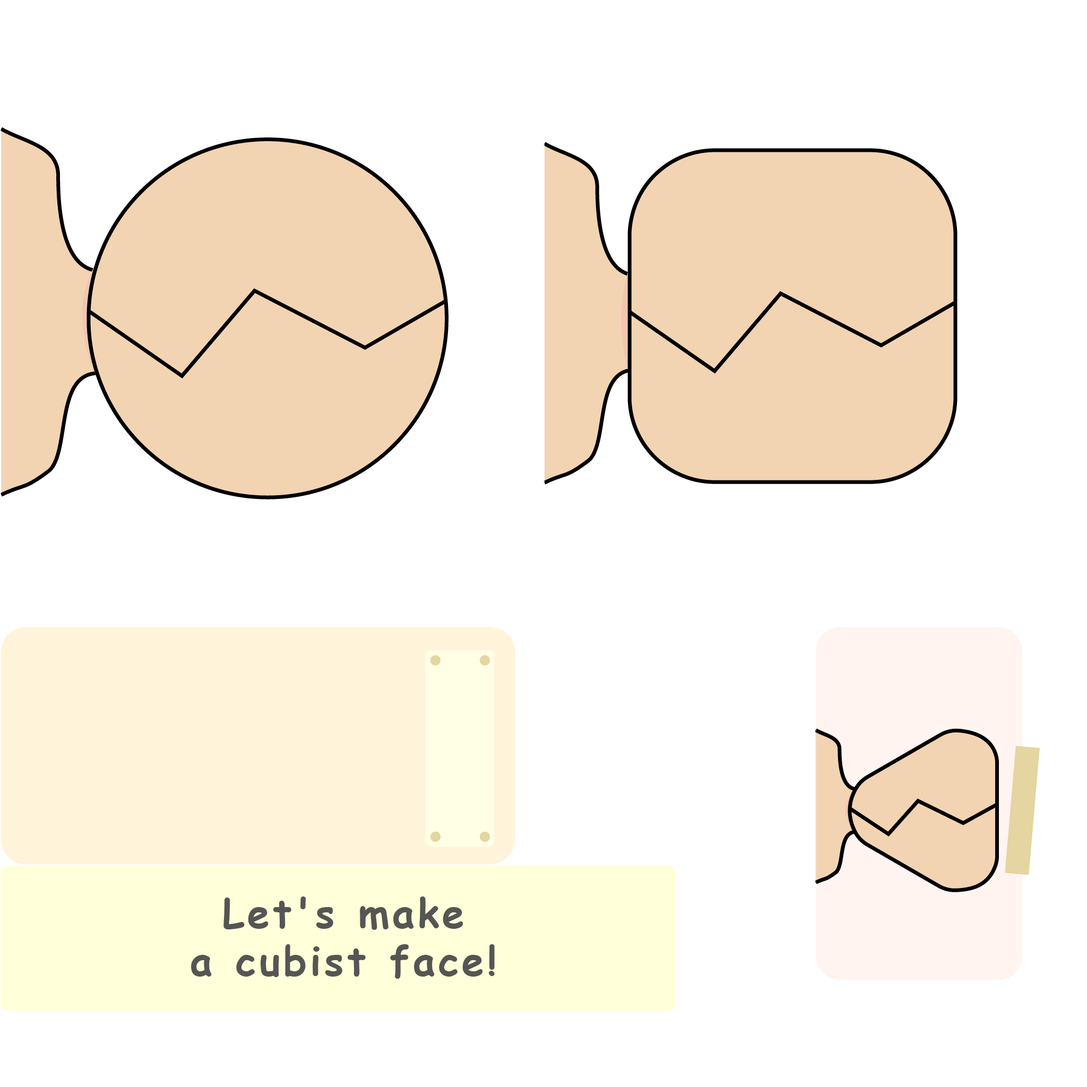
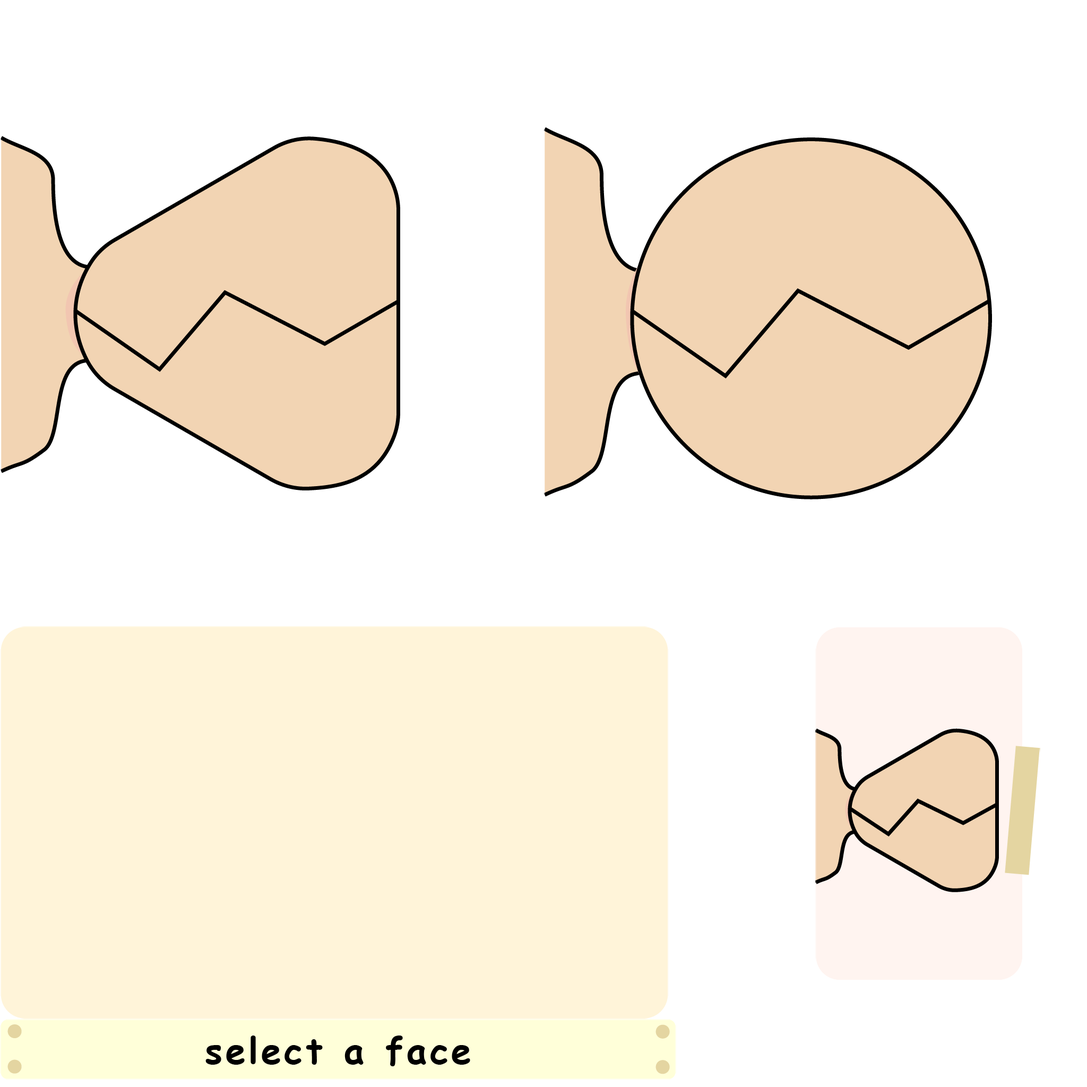
0.2

diff --git a/scripts/c3runtime.js b/scripts/c3runtime.js
@@ -3619,6 +3619,85 @@ SetWebFont(familyName,cssUrl){console.warn("[Text] 'Set web font' action is depr
 }
 
 {
+'use strict';{const C3=self.C3;C3.Plugins.DrawingCanvas=class DrawingCanvasPlugin extends C3.SDKPluginBase{constructor(opts){super(opts)}Release(){super.Release()}}}{const C3=self.C3;C3.Plugins.DrawingCanvas.Type=class DrawingCanvasType extends C3.SDKTypeBase{constructor(objectClass){super(objectClass)}Release(){super.Release()}OnCreate(){}}}
+{const C3=self.C3;const C3X=self.C3X;const RESOLUTION_MODE=0;const INITIALLY_VISIBLE=1;const ORIGIN=2;const MULTISAMPLING=3;const tempColor=C3.New(C3.Color);const tempRect=C3.New(C3.Rect);const tempQuad=C3.New(C3.Quad);let drawDepth=0;C3.Plugins.DrawingCanvas.Instance=class DrawingCanvasInstance extends C3.SDKWorldInstanceBase{constructor(inst,properties){super(inst);this._renderTarget=null;this._rcTex=C3.New(C3.Rect);const wi=this.GetWorldInfo();this._isFixedResolution=false;this._fixedResolutionWidth=
+Math.floor(wi.GetWidth());this._fixedResolutionHeight=Math.floor(wi.GetHeight());this._multisampling=0;this._texRenderTarget=null;this._drawCommands=[];this._currentPoly=[];this._drawBlendMode=0;this._drawScale=1;this._texScale=1;this._lineDashTexture=null;this._savedImageUrl="";this._snapshot=null;this._tempRect=C3.New(C3.Rect);this._deviceQuadUnrotated=C3.New(C3.Quad);this._deviceQuadRotated=C3.New(C3.Quad);if(properties){this._isFixedResolution=properties[RESOLUTION_MODE]===1;wi.SetVisible(!!properties[INITIALLY_VISIBLE]);
+this._multisampling=[0,2,4,8][properties[MULTISAMPLING]]}const renderer=this._runtime.GetRenderer();this._SetDrawingBlendMode(0);if(renderer.IsWebGL()&&renderer.GetWebGLVersionNumber()<2)this._multisampling=0;this._StartTicking2()}Release(){if(this._renderTarget){this._renderTarget.GetRenderer().DeleteRenderTarget(this._renderTarget);this._renderTarget=null}if(this._texRenderTarget){this._texRenderTarget.GetRenderer().DeleteRenderTarget(this._texRenderTarget);this._texRenderTarget=null}C3.clearArray(this._drawCommands);
+super.Release()}IsFixedResolutionMode(){return this._isFixedResolution}_ClonePoly(){return this._currentPoly.map(p=>p.slice(0))}_GetLineDashTexture(){this._MaybeCreateLineDashTexture();return this._lineDashTexture}_MaybeCreateLineDashTexture(){if(this._lineDashTexture)return;const canvas=C3.CreateCanvas(512,8);const ctx=canvas.getContext("2d");ctx.clearRect(0,0,512,8);ctx.fillStyle="white";ctx.fillRect(0,0,256,8);this._lineDashTexture=this._runtime.GetRenderer().CreateStaticTexture(canvas,{wrapX:"repeat",
+sampling:this._runtime.GetSampling()})}_SetDrawingBlendMode(bm){this._drawBlendMode=bm}_ApplyCurrentDrawingBlendMode(renderer){renderer.SetBlendMode(this._drawBlendMode)}_AddDrawCommand(cmd){this._drawCommands.push(cmd);this._runtime.UpdateRender()}_UpdateRenderTargetSize(renderer,rtWidth,rtHeight){if(this._renderTarget)renderer.DeleteRenderTarget(this._renderTarget);this._renderTarget=renderer.CreateRenderTarget({width:rtWidth,height:rtHeight,sampling:this._runtime.GetSampling(),isSampled:this._multisampling===
+0,canReadPixels:this._multisampling===0,multisampling:this._multisampling});if(this._multisampling>0){if(this._texRenderTarget)renderer.DeleteRenderTarget(this._texRenderTarget);this._texRenderTarget=renderer.CreateRenderTarget({width:rtWidth,height:rtHeight,sampling:this._runtime.GetSampling(),isSampled:true,canReadPixels:true})}renderer.SetTexture(null)}_GetRenderTarget(){return this._renderTarget}_GetTexRenderTarget(){return this._texRenderTarget}GetMultisampling(){return this._multisampling}_SetRenderTargetDeviceTransform(renderer){this._runtime.GetCanvasManager().SetDeviceTransform(renderer,
+this._renderTarget.GetWidth(),this._renderTarget.GetHeight(),false)}HasAnyDrawingCommandInQueue(){return this._drawCommands.some(c=>!(c instanceof C3.Plugins.DrawingCanvas.DrawCommand.SaveImage))}_CalculateUnrotatedDeviceCoords(outRect,outQuad){const wi=this.GetWorldInfo();const layer=wi.GetLayer();const layout=layer.GetLayout();const angle=wi.GetAngle();const layerAngle=layer.GetOwnAngle();const layoutAngle=layout.GetAngle();if(angle!==0||layerAngle!==0||layoutAngle!==0){layout.SetAngle(0);layer.SetAngle(0);
+wi.SetAngle(0);wi.SetBboxChanged()}const quad=wi.GetBoundingQuad();const [dl,dt]=layer.LayerToDrawSurface(quad.getTlx(),quad.getTly());const [dr,db]=layer.LayerToDrawSurface(quad.getBrx(),quad.getBry());const offX=dl-Math.round(dl);const offY=dt-Math.round(dt);outRect.set(dl,dt,dr,db);outRect.offset(-offX,-offY);outRect.normalize();outQuad.setFromRect(outRect);if(angle!==0||layerAngle!==0||layoutAngle!==0){layout.SetAngle(layoutAngle);layer.SetAngle(layerAngle);wi.SetAngle(angle);wi.SetBboxChanged()}}_CalculateRotatedDeviceCoords(outQuad){const wi=
+this.GetWorldInfo();const layer=wi.GetLayer();const layout=layer.GetLayout();const layerAngle=layer.GetOwnAngle();const layoutAngle=layout.GetAngle();if(layerAngle!==0||layoutAngle!==0){layout.SetAngle(0);layer.SetAngle(0)}const quad=wi.GetBoundingQuad();const [dtlx,dtly]=layer.LayerToDrawSurface(quad.getTlx(),quad.getTly());const [dtrx,dtry]=layer.LayerToDrawSurface(quad.getTrx(),quad.getTry());const [dbrx,dbry]=layer.LayerToDrawSurface(quad.getBrx(),quad.getBry());const [dblx,dbly]=layer.LayerToDrawSurface(quad.getBlx(),
+quad.getBly());const offX=dtlx-Math.round(dtlx);const offY=dtly-Math.round(dtly);outQuad.set(dtlx,dtly,dtrx,dtry,dbrx,dbry,dblx,dbly);outQuad.offset(offX,offY);if(layerAngle!==0||layoutAngle!==0){layout.SetAngle(layoutAngle);layer.SetAngle(layerAngle)}}_CalculateSurfaceDeviceSize(){const renderer=this._runtime.GetRenderer();const tempRect=this._tempRect;this._CalculateUnrotatedDeviceCoords(tempRect,this._deviceQuadUnrotated);this._CalculateRotatedDeviceCoords(this._deviceQuadRotated);let rtWidth=
+0;let rtHeight=0;if(this._isFixedResolution){rtWidth=this._fixedResolutionWidth;rtHeight=this._fixedResolutionHeight;if(renderer.IsWebGL())this._rcTex.set(0,1,1,0);else this._rcTex.set(0,0,1,1)}else{const EPSILON=.001;rtWidth=Math.ceil(tempRect.width()+EPSILON);rtHeight=Math.ceil(tempRect.height()+EPSILON);if(renderer.IsWebGL())this._rcTex.set(0,1,tempRect.width()/rtWidth,1-tempRect.height()/rtHeight);else this._rcTex.set(0,0,tempRect.width()/rtWidth,tempRect.height()/rtHeight)}const maxTextureSize=
+renderer.GetMaxTextureSize();const maxRtDim=Math.max(rtWidth,rtHeight);if(maxRtDim>maxTextureSize){this._texScale=maxTextureSize/maxRtDim;rtWidth=Math.round(rtWidth*this._texScale);rtHeight=Math.round(rtHeight*this._texScale)}else this._texScale=1;return[rtWidth,rtHeight]}_MaybeCreateRenderTarget(){if(this._renderTarget)return;const [rtWidth,rtHeight]=this._CalculateSurfaceDeviceSize();if(rtWidth<=0||rtHeight<=0)return;this._drawScale=tempRect.width()/this.GetWorldInfo().GetWidth();this._UpdateRenderTargetSize(this._runtime.GetRenderer(),
+rtWidth,rtHeight);this.Trigger(C3.Plugins.DrawingCanvas.Cnds.OnResolutionChanged)}Tick2(){const renderer=this._runtime.GetRenderer();const wi=this.GetWorldInfo();const tempRect=this._tempRect;++drawDepth;const [rtWidth,rtHeight]=this._CalculateSurfaceDeviceSize();if(rtWidth<=0||rtHeight<=0){--drawDepth;return}this._drawScale=this._isFixedResolution?1:tempRect.width()/wi.GetWidth();const drawScale=this._drawScale*this._texScale;const didRenderTargetChange=!this._renderTarget||this._renderTarget.GetWidth()!==
+rtWidth||this._renderTarget.GetHeight()!==rtHeight;if(didRenderTargetChange)this.Trigger(C3.Plugins.DrawingCanvas.Cnds.OnResolutionChanged);if(this._drawCommands.length>0||!this._renderTarget){if(!this._renderTarget||didRenderTargetChange&&this.HasAnyDrawingCommandInQueue())this._UpdateRenderTargetSize(renderer,rtWidth,rtHeight);renderer.SetRenderTarget(this._renderTarget);this._SetRenderTargetDeviceTransform(renderer);this._ApplyCurrentDrawingBlendMode(renderer);for(const dc of this._drawCommands)dc.Do(renderer,
+drawScale,this);C3.clearArray(this._drawCommands);renderer.SetAlphaBlend();if(this._multisampling>0){renderer.SetRenderTarget(this._texRenderTarget);renderer.CopyRenderTarget(this._renderTarget,"crop")}}--drawDepth}Draw(renderer){const wi=this.GetWorldInfo();const layer=wi.GetLayer();const canvasManager=this._runtime.GetCanvasManager();const lastRenderTarget=renderer.GetRenderTarget();let quad=this._deviceQuadUnrotated;if(!this._renderTarget)return;if(renderer.IsWebGPU())renderer._MaybeDoPendingClearRenderPass(this._renderTarget);
+if(this._multisampling===0)renderer.SetTexture(this._renderTarget.GetTexture());else renderer.SetTexture(this._texRenderTarget.GetTexture());let didChangeTransform=false;if(drawDepth>0)if(this._inst._IsDrawingWithEffects())quad=wi.GetBoundingQuad();else{canvasManager.SetDeviceTransform(renderer,lastRenderTarget.GetWidth(),lastRenderTarget.GetHeight(),false);didChangeTransform=true;quad=this._deviceQuadRotated}else if(wi.GetAngle()===0&&layer.GetAngle()===0&&!wi.HasMesh()&&layer.RendersIn2DMode()){canvasManager.SetDeviceTransform(renderer);
+didChangeTransform=true}else quad=wi.GetBoundingQuad();if(wi.HasMesh())this._DrawMesh(renderer,wi);else renderer.Quad3(quad,this._rcTex);if(didChangeTransform)layer._SetTransform(renderer,false);renderer.SetTexture(null)}_DrawMesh(renderer,wi){const transformedMesh=wi.GetTransformedMesh();if(wi.IsMeshChanged()){wi.CalculateBbox(tempRect,tempQuad,false);transformedMesh.CalculateTransformedMesh(wi.GetSourceMesh(),tempQuad,this._rcTex);wi.SetMeshChanged(false)}transformedMesh.Draw(renderer)}GetSnapshotPixel(x,
+y){if(!this._snapshot)return[0,0,0,0];const width=this._snapshot.width;const height=this._snapshot.height;x=Math.floor(x);if(this._runtime.GetRenderer().IsWebGL())y=height-1-Math.floor(y);else y=Math.floor(y);if(x<0||y<0||x>=width||y>=height)return[0,0,0,0];const data=this._snapshot.data;const ptr=y*width*4+x*4;let r=data[ptr]/255;let g=data[ptr+1]/255;let b=data[ptr+2]/255;let a=data[ptr+3]/255;if(a!==0){r/=a;g/=a;b/=a}return[r*100,g*100,b*100,a*100]}SetSnapshotPixel(x,y,rgb){if(!this._snapshot)return[0,
+0,0,0];tempColor.setFromRgbValue(rgb);tempColor.premultiply();const width=this._snapshot.width;const height=this._snapshot.height;x=Math.floor(x);y=height-1-Math.floor(y);if(x<0||y<0||x>=width||y>=height)return;const data=this._snapshot.data;const ptr=y*width*4+x*4;data[ptr]=Math.floor(tempColor.getR()*255);data[ptr+1]=Math.floor(tempColor.getG()*255);data[ptr+2]=Math.floor(tempColor.getB()*255);data[ptr+3]=Math.floor(tempColor.getA()*255)}GetImagePixelData(){return new Promise(resolve=>{this._AddDrawCommand(new C3.Plugins.DrawingCanvas.DrawCommand.SaveImage(async imageData=>
+{const imgDataBuffer=imageData.data.buffer;const width=imageData.width;const height=imageData.height;const processedBuffer=await this._runtime.AddJob("ProcessImageData",{"buffer":imgDataBuffer,"width":width,"height":height,"unpremultiply":true,"flipY":true},[imgDataBuffer]);resolve(new ImageData(new Uint8ClampedArray(processedBuffer),width,height))}))})}LoadImagePixelData(imageData,premultiplyAlpha,flipY){this._MaybeCreateRenderTarget();if(!this._renderTarget)throw new Error("invalid canvas size");
+if(imageData.width!==this._renderTarget.GetWidth()||imageData.height!==this._renderTarget.GetHeight())throw new Error(`wrong size ImageData: expected ${this._renderTarget.GetWidth()} x ${this._renderTarget.GetHeight()}, got ${imageData.width} x ${imageData.height}`);C3.clearArray(this._drawCommands);const renderer=this._runtime.GetRenderer();if(this._texRenderTarget){const lastRenderTarget=renderer.GetRenderTarget();const texture=this._texRenderTarget.GetTexture();renderer.UpdateTexture(imageData,
+texture,{premultiplyAlpha:!!premultiplyAlpha,flipY:!!flipY});renderer.SetRenderTarget(this._renderTarget);renderer.CopyRenderTarget(this._texRenderTarget,"crop");renderer.SetRenderTarget(lastRenderTarget)}else{const texture=this._renderTarget.GetTexture();renderer.UpdateTexture(imageData,texture,{premultiplyAlpha:!!premultiplyAlpha,flipY:!!flipY})}this._runtime.UpdateRender()}GetScriptInterfaceClass(){return self.IDrawingCanvasInstance}};const map=new WeakMap;self.IDrawingCanvasInstance=class IDrawingCanvasInstance extends self.IWorldInstance{constructor(){super();
+map.set(this,self.IInstance._GetInitInst().GetSdkInstance())}getImagePixelData(){return map.get(this).GetImagePixelData()}loadImagePixelData(imageData,premultiplyAlpha=false){C3X.RequireInstanceOf(imageData,ImageData);map.get(this).LoadImagePixelData(imageData,premultiplyAlpha,true)}get surfaceDeviceWidth(){const inst=map.get(this);inst._MaybeCreateRenderTarget();const rt=inst._GetRenderTarget();if(!rt)throw new Error("invalid canvas size");return rt.GetWidth()}get surfaceDeviceHeight(){const inst=
+map.get(this);inst._MaybeCreateRenderTarget();const rt=inst._GetRenderTarget();if(!rt)throw new Error("invalid canvas size");return rt.GetHeight()}}}{const C3=self.C3;C3.Plugins.DrawingCanvas.Cnds={OnSavedImage(){return true},OnSnapshot(){return true},OnResolutionChanged(){return true}}}
+{const C3=self.C3;function SortByInstanceZIndex(a,b){return a.GetWorldInfo().GetZIndex()-b.GetWorldInfo().GetZIndex()}C3.Plugins.DrawingCanvas.Acts={SetEffect(effect){this.GetWorldInfo().SetBlendMode(effect);this._runtime.UpdateRender()},SetResolutionMode(mode,fixedWidth,fixedHeight){this._isFixedResolution=mode===1;this._fixedResolutionWidth=Math.floor(fixedWidth);this._fixedResolutionHeight=Math.floor(fixedHeight)},ClearCanvas(rgb){C3.clearArray(this._drawCommands);this._AddDrawCommand(new C3.Plugins.DrawingCanvas.DrawCommand.ClearCanvas(rgb))},
+ClearRect(left,top,right,bottom,rgb){if(left===right||top===bottom)return;this._AddDrawCommand(new C3.Plugins.DrawingCanvas.DrawCommand.ClearRect(left,top,right,bottom,rgb))},FillRect(left,top,right,bottom,rgb){if(left===right||top===bottom)return;this._AddDrawCommand(new C3.Plugins.DrawingCanvas.DrawCommand.FillRect(left,top,right,bottom,rgb))},FillLinearGradient(left,top,right,bottom,rgb1,rgb2,dir){if(left===right||top===bottom)return;this._AddDrawCommand(new C3.Plugins.DrawingCanvas.DrawCommand.FillLinearGradient(left,
+top,right,bottom,rgb1,rgb2,dir))},FillEllipse(x,y,radiusX,radiusY,rgb,edge){if(radiusX<=0||radiusY<=0)return;this._AddDrawCommand(new C3.Plugins.DrawingCanvas.DrawCommand.FillEllipse(x,y,radiusX,radiusY,rgb,edge!==0))},OutlineEllipse(x,y,radiusX,radiusY,rgb,thickness,edge){if(radiusX<=0||radiusY<=0||thickness<=0)return;this._AddDrawCommand(new C3.Plugins.DrawingCanvas.DrawCommand.OutlineEllipse(x,y,radiusX,radiusY,rgb,thickness,edge!==0))},OutlineRect(left,top,right,bottom,rgb,thickness){if(left===
+right||top===bottom||thickness<=0)return;this._AddDrawCommand(new C3.Plugins.DrawingCanvas.DrawCommand.OutlineRect(left,top,right,bottom,rgb,thickness))},Line(x1,y1,x2,y2,rgb,thickness,cap){if(x1===x2&&y1===y2||thickness<=0)return;const capStr=cap===0?"butt":"square";this._AddDrawCommand(new C3.Plugins.DrawingCanvas.DrawCommand.Line(x1,y1,x2,y2,rgb,thickness,capStr))},LineDashed(x1,y1,x2,y2,rgb,thickness,dashLength,cap){if(x1===x2&&y1===y2||thickness<=0||dashLength<=0)return;const capStr=cap===0?
+"butt":"square";const dashTex=this._GetLineDashTexture();this._AddDrawCommand(new C3.Plugins.DrawingCanvas.DrawCommand.LineDashed(x1,y1,x2,y2,rgb,thickness,dashLength,dashTex,capStr))},AddPolyPoint(x,y){this._currentPoly.push([x,y])},ResetPoly(){C3.clearArray(this._currentPoly)},LinePoly(rgb,thickness,cap){if(this._currentPoly.length<2||thickness<=0)return;const capStr=cap===0?"butt":"square";this._AddDrawCommand(new C3.Plugins.DrawingCanvas.DrawCommand.LinePoly(this._ClonePoly(),rgb,thickness,capStr))},
+LineDashedPoly(rgb,thickness,dashLength,cap){if(this._currentPoly.length<2||thickness<=0||dashLength<=0)return;const capStr=cap===0?"butt":"square";const dashTex=this._GetLineDashTexture();this._AddDrawCommand(new C3.Plugins.DrawingCanvas.DrawCommand.LineDashedPoly(this._ClonePoly(),rgb,thickness,dashLength,dashTex,capStr))},FillPoly(rgb){if(this._currentPoly.length<3)return;this._AddDrawCommand(new C3.Plugins.DrawingCanvas.DrawCommand.FillPoly(this._ClonePoly(),rgb))},SetDrawBlend(blendMode){if(blendMode>=
+2)blendMode++;this._AddDrawCommand(new C3.Plugins.DrawingCanvas.DrawCommand.SetDrawBlend(blendMode))},PasteObject(objectClass,includeFx){if(!objectClass)return;const myWi=this.GetWorldInfo();const myBbox=myWi.GetBoundingBox();const myQuad=myWi.GetBoundingQuad();const instances=objectClass.GetCurrentSol().GetInstances().filter(inst=>{const instWi=inst.GetWorldInfo();return instWi&&myBbox.intersectsRect(instWi.GetBoundingBox())&&(myWi.GetAngle()===0||myQuad.intersectsQuad(instWi.GetBoundingQuad()))});
+if(instances.length===0)return;instances.sort(SortByInstanceZIndex);let resolve=null;const ret=new Promise(r=>resolve=r);this._AddDrawCommand(new C3.Plugins.DrawingCanvas.DrawCommand.DrawInstances(instances,includeFx!==0,myWi,resolve));return ret},SaveImage(format,quality,x,y,width,height){const formatStr=format===0?"image/png":"image/jpeg";quality/=100;const areaRect=C3.New(C3.Rect);areaRect.setWH(x,y,width,height);return new Promise(resolve=>{this._AddDrawCommand(new C3.Plugins.DrawingCanvas.DrawCommand.SaveImage(async imageData=>
+{const imgDataBuffer=imageData.data.buffer;const width=imageData.width;const height=imageData.height;const needFlipY=this._runtime.GetRenderer().IsWebGL();const processedBuffer=await this._runtime.AddJob("ProcessImageData",{"buffer":imgDataBuffer,"width":width,"height":height,"unpremultiply":true,"flipY":needFlipY&&!C3.Supports.ImageBitmapOptions},[imgDataBuffer]);imageData=new ImageData(new Uint8ClampedArray(processedBuffer),width,height);let blob;if(C3.Supports.ImageBitmapOptions){const imageBitmap=
+await createImageBitmap(imageData,{"premultiplyAlpha":"none","imageOrientation":needFlipY?"flipY":"none"});blob=await C3.DrawableToBlob(imageBitmap,formatStr,quality)}else blob=await C3.ImageDataToBlob(imageData,formatStr,quality);if(this._savedImageUrl)URL.revokeObjectURL(this._savedImageUrl);this._savedImageUrl=URL.createObjectURL(blob);this.Trigger(C3.Plugins.DrawingCanvas.Cnds.OnSavedImage);resolve()},areaRect))})},SaveSnapshot(){return new Promise(resolve=>{this._AddDrawCommand(new C3.Plugins.DrawingCanvas.DrawCommand.SaveImage(imageData=>
+{this._snapshot=imageData;this.Trigger(C3.Plugins.DrawingCanvas.Cnds.OnSnapshot);resolve()}))})},ClearSnapshot(){this._snapshot=null},SnapshotSetPixel(x,y,rgb){this.SetSnapshotPixel(x,y,rgb)},LoadSnapshot(){if(!this._snapshot||!this._renderTarget)return;if(this._snapshot.width!==this._renderTarget.GetWidth()||this._snapshot.height!==this._renderTarget.GetHeight())return;this.LoadImagePixelData(this._snapshot,false)}}}
+{const C3=self.C3;C3.Plugins.DrawingCanvas.Exps={SavedImageURL(){return this._savedImageUrl},SnapshotRedAt(x,y){return this.GetSnapshotPixel(x,y)[0]},SnapshotGreenAt(x,y){return this.GetSnapshotPixel(x,y)[1]},SnapshotBlueAt(x,y){return this.GetSnapshotPixel(x,y)[2]},SnapshotAlphaAt(x,y){return this.GetSnapshotPixel(x,y)[3]},SnapshotWidth(){return this._snapshot?this._snapshot.width:0},SnapshotHeight(){return this._snapshot?this._snapshot.height:0},PixelScale(){return 1/(this._drawScale*this._texScale)},
+SurfaceDeviceWidth(){const rt=this._GetRenderTarget();return rt?rt.GetWidth():0},SurfaceDeviceHeight(){const rt=this._GetRenderTarget();return rt?rt.GetHeight():0}}};
+
+}
+
+{
+'use strict';const C3=self.C3;const tempQuad=C3.New(C3.Quad);const tempUvQuad=C3.New(C3.Quad);const tempVector2=C3.New(C3.Vector2);C3.Plugins.DrawingCanvas.DrawCommand=class DrawCommand{constructor(){}Do(renderer){throw new Error("required override");}};const DrawCommand=C3.Plugins.DrawingCanvas.DrawCommand;
+DrawCommand.SaveImage=class SaveImageCommand extends DrawCommand{constructor(callback,areaRect){super();this._callback=callback;this._areaRect=areaRect}Do(renderer,scale,canvasInst){let readRenderTarget=renderer.GetRenderTarget();if(readRenderTarget.GetMultisampling()>0){const texRenderTarget=canvasInst._GetTexRenderTarget();renderer.SetRenderTarget(texRenderTarget);renderer.CopyRenderTarget(readRenderTarget,"crop");renderer.SetRenderTarget(readRenderTarget);readRenderTarget=texRenderTarget}renderer.ReadBackRenderTargetToImageData(readRenderTarget,
+false,this._areaRect).then(this._callback)}};DrawCommand.ClearCanvas=class ClearCanvasCommand extends DrawCommand{constructor(rgb){super();this._color=C3.New(C3.Color);this._color.setFromRgbValue(rgb);this._color.premultiply()}Do(renderer){renderer.Clear(this._color)}};
+DrawCommand.ClearRect=class ClearRectCommand extends DrawCommand{constructor(left,top,right,bottom,rgb){super();this._rect=C3.New(C3.Rect);this._rect.set(left,top,right,bottom);this._color=C3.New(C3.Color);this._color.setFromRgbValue(rgb);this._color.premultiply()}Do(renderer,scale,canvasInst){this._rect.multiply(scale,scale);renderer.SetColorFillMode();renderer.SetColor(this._color);renderer.SetBlendMode(3);renderer.Rect(this._rect);canvasInst._ApplyCurrentDrawingBlendMode(renderer)}};
+DrawCommand.FillRect=class FillRectCommand extends DrawCommand{constructor(left,top,right,bottom,rgb){super();this._rect=C3.New(C3.Rect);this._rect.set(left,top,right,bottom);this._color=C3.New(C3.Color);this._color.setFromRgbValue(rgb);this._color.premultiply()}Do(renderer,scale){renderer.SetColorFillMode();renderer.SetColor(this._color);this._rect.multiply(scale,scale);renderer.Rect(this._rect)}};
+DrawCommand.FillLinearGradient=class FillLinearGradientCommand extends DrawCommand{constructor(left,top,right,bottom,rgb1,rgb2,dir){super();this._rect=C3.New(C3.Rect);this._rect.set(left,top,right,bottom);this._color1=C3.New(C3.Color);this._color1.setFromRgbValue(rgb1);this._color2=C3.New(C3.Color);this._color2.setFromRgbValue(rgb2);this._dir=dir}Do(renderer,scale){renderer.SetLinearGradientFillMode();renderer.SetColor(this._color1);renderer.SetGradientColor(this._color2);this._rect.multiply(scale,
+scale);tempQuad.setFromRect(this._rect);if(this._dir===0)tempUvQuad.set(0,0,1,0,1,1,0,1);else tempUvQuad.set(0,1,0,0,1,0,1,1);renderer.Quad4(tempQuad,tempUvQuad)}};
+DrawCommand.FillEllipse=class FillEllipseCommand extends DrawCommand{constructor(x,y,radiusX,radiusY,rgb,isSmooth){super();this._rect=C3.New(C3.Rect);this._rect.set(x-radiusX,y-radiusY,x+radiusX,y+radiusY);this._color=C3.New(C3.Color);this._color.setFromRgbValue(rgb);this._color.premultiply();this._isSmooth=isSmooth}Do(renderer,scale){this._rect.multiply(scale,scale);if(this._isSmooth){renderer.SetSmoothEllipseFillMode();renderer.SetColor(this._color);this._rect.inflate(.5,.5);renderer.SetEllipseParams(1/
+this._rect.width(),1/this._rect.height());renderer.Rect(this._rect)}else{renderer.SetHardEllipseFillMode();renderer.SetColor(this._color);renderer.Rect(this._rect)}}};
+DrawCommand.OutlineEllipse=class OutlinellipseCommand extends DrawCommand{constructor(x,y,radiusX,radiusY,rgb,thickness,isSmooth){super();this._rect=C3.New(C3.Rect);this._rect.set(x-radiusX,y-radiusY,x+radiusX,y+radiusY);this._color=C3.New(C3.Color);this._color.setFromRgbValue(rgb);this._color.premultiply();this._thickness=thickness;this._isSmooth=isSmooth}Do(renderer,scale){this._rect.multiply(scale,scale);if(this._isSmooth){renderer.SetSmoothEllipseOutlineMode();renderer.SetColor(this._color);this._rect.inflate(.5,
+.5);renderer.SetEllipseParams(1/this._rect.width(),1/this._rect.height(),this._thickness*scale);renderer.Rect(this._rect)}else{renderer.SetHardEllipseOutlineMode();renderer.SetEllipseParams(1/this._rect.width(),1/this._rect.height(),this._thickness*scale);renderer.SetColor(this._color);renderer.Rect(this._rect)}}};
+DrawCommand.OutlineRect=class OutlineRectCommand extends DrawCommand{constructor(left,top,right,bottom,rgb,thickness){super();this._rect=C3.New(C3.Rect);this._rect.set(left,top,right,bottom);this._color=C3.New(C3.Color);this._color.setFromRgbValue(rgb);this._color.premultiply();this._thickness=thickness}Do(renderer,scale){renderer.SetColorFillMode();renderer.SetColor(this._color);renderer.PushLineCapZag();renderer.PushLineWidth(this._thickness*scale);this._rect.multiply(scale,scale);renderer.LineRect2(this._rect);
+renderer.PopLineCap();renderer.PopLineWidth()}};
+DrawCommand.Line=class LineCommand extends DrawCommand{constructor(x1,y1,x2,y2,rgb,thickness,cap){super();this._rect=C3.New(C3.Rect);this._rect.set(x1,y1,x2,y2);this._color=C3.New(C3.Color);this._color.setFromRgbValue(rgb);this._color.premultiply();this._thickness=thickness;this._cap=cap}Do(renderer,scale){renderer.SetColorFillMode();renderer.SetColor(this._color);renderer.PushLineCap(this._cap);renderer.PushLineWidth(this._thickness*scale);const rc=this._rect;rc.multiply(scale,scale);renderer.Line(rc.getLeft(),
+rc.getTop(),rc.getRight(),rc.getBottom());renderer.PopLineCap();renderer.PopLineWidth()}};
+DrawCommand.LinePoly=class LinePolyCommand extends DrawCommand{constructor(poly,rgb,thickness,cap){super();this._poly=poly;this._color=C3.New(C3.Color);this._color.setFromRgbValue(rgb);this._color.premultiply();this._thickness=thickness;this._cap=cap}Do(renderer,scale){renderer.SetColorFillMode();renderer.SetColor(this._color);renderer.PushLineCap(this._cap);renderer.PushLineWidth(this._thickness*scale);const poly=this._poly;for(let i=0,len=poly.length;i<len;++i){const j=(i+1)%len;const x1=poly[i][0]*
+scale;const y1=poly[i][1]*scale;const x2=poly[j][0]*scale;const y2=poly[j][1]*scale;renderer.Line(x1,y1,x2,y2)}renderer.PopLineCap();renderer.PopLineWidth()}};
+DrawCommand.LineDashed=class LineDashedCommand extends DrawCommand{constructor(x1,y1,x2,y2,rgb,thickness,dashLength,dashTex,cap){super();this._rect=C3.New(C3.Rect);this._rect.set(x1,y1,x2,y2);this._color=C3.New(C3.Color);this._color.setFromRgbValue(rgb);this._color.premultiply();this._thickness=thickness;this._dashLength=dashLength;this._dashTex=dashTex;this._cap=cap}Do(renderer,scale){renderer.SetTextureFillMode();renderer.SetTexture(this._dashTex);renderer.SetColor(this._color);renderer.PushLineCap(this._cap);
+renderer.PushLineWidth(this._thickness*scale);const rc=this._rect;const numDashes=C3.distanceTo(rc.getLeft(),rc.getTop(),rc.getRight(),rc.getBottom())/(this._dashLength*2);rc.multiply(scale,scale);renderer.TexturedLine(rc.getLeft(),rc.getTop(),rc.getRight(),rc.getBottom(),0,numDashes);renderer.PopLineCap();renderer.PopLineWidth()}};
+DrawCommand.LineDashedPoly=class LineDashedPolyCommand extends DrawCommand{constructor(poly,rgb,thickness,dashLength,dashTex,cap){super();this._poly=poly;this._color=C3.New(C3.Color);this._color.setFromRgbValue(rgb);this._color.premultiply();this._thickness=thickness;this._dashLength=dashLength;this._dashTex=dashTex;this._cap=cap}Do(renderer,scale){renderer.SetTextureFillMode();renderer.SetTexture(this._dashTex);renderer.SetColor(this._color);renderer.PushLineCap(this._cap);renderer.PushLineWidth(this._thickness*
+scale);let u=0;const poly=this._poly;for(let i=0,len=poly.length;i<len;++i){const j=(i+1)%len;const x1=poly[i][0];const y1=poly[i][1];const x2=poly[j][0];const y2=poly[j][1];const v=u+C3.distanceTo(x1,y1,x2,y2)/(this._dashLength*2);renderer.TexturedLine(x1*scale,y1*scale,x2*scale,y2*scale,u,v);u=v-Math.floor(v)}renderer.PopLineCap();renderer.PopLineWidth()}};
+DrawCommand.FillPoly=class FillPolyCommand extends DrawCommand{constructor(poly,rgb){super();this._poly=poly;this._color=C3.New(C3.Color);this._color.setFromRgbValue(rgb);this._color.premultiply()}Do(renderer,scale){renderer.SetColorFillMode();renderer.SetColor(this._color);const poly=this._poly;for(let i=0,len=poly.length;i<len;++i){const p=poly[i];p[0]*=scale;p[1]*=scale}const polyDecomp=self.polyDecomp;if(!polyDecomp.isSimple(poly))return;polyDecomp.makeCCW(poly);polyDecomp.removeCollinearPoints(poly,
+C3.toRadians(.1));const convexPolygons=polyDecomp.quickDecomp(poly);for(const convexPoly of convexPolygons)renderer.ConvexPoly(convexPoly.flat())}};DrawCommand.SetDrawBlend=class SetDrawBlend extends DrawCommand{constructor(bm){super();this._blendIndex=bm}Do(renderer,scale,canvasInst){canvasInst._SetDrawingBlendMode(this._blendIndex);canvasInst._ApplyCurrentDrawingBlendMode(renderer)}};
+DrawCommand.DrawInstances=class DrawInstancesCommand extends DrawCommand{constructor(instances,includeFx,canvasWi,resolve){super();const ownLayer=canvasWi.GetLayer();this._includeFx=includeFx;this._resolve=resolve;this._layoutTransform=ownLayer.GetLayout().SaveTransform();this._layerTransforms=new Map;this._layerTransforms.set(ownLayer,ownLayer.SaveTransform());this._instances=instances.map(inst=>this._SaveInstanceState(inst,canvasWi))}_SaveInstanceState(inst,canvasWi){const canvasAngle=canvasWi.GetAngle();
+const canvasLayer=canvasWi.GetLayer();const instWi=inst.GetWorldInfo();const instLayer=instWi.GetLayer();const oldX=instWi.GetX();const oldY=instWi.GetY();const oldWidth=instWi.GetWidth();const oldHeight=instWi.GetHeight();const oldAngle=instWi.GetAngle();if(!this._layerTransforms.has(instLayer))this._layerTransforms.set(instLayer,instLayer.SaveTransform());const areLayerTransformsCompatible=canvasLayer.IsTransformCompatibleWith(instLayer);if(!areLayerTransformsCompatible){const [dsx,dsy]=instLayer.LayerToDrawSurface(oldX,
+oldY);const [tx,ty]=canvasLayer.DrawSurfaceToLayer(dsx,dsy);instWi.SetXY(tx,ty);const scaleFactor=instLayer.GetNormalScale()/canvasLayer.GetNormalScale();instWi.SetSize(oldWidth*scaleFactor,oldHeight*scaleFactor);const angleOffset=canvasLayer.GetOwnAngle()-instLayer.GetOwnAngle();instWi.OffsetAngle(angleOffset)}if(canvasAngle!==0){const canvasQuad=canvasWi.GetBoundingQuad();const canvasMidX=canvasQuad.midX();const canvasMidY=canvasQuad.midY();const sinA=-canvasWi.GetSinAngle();const cosA=canvasWi.GetCosAngle();
+tempVector2.set(oldX,oldY);tempVector2.offset(-canvasMidX,-canvasMidY);tempVector2.rotatePrecalc(sinA,cosA);tempVector2.offset(canvasMidX,canvasMidY);instWi.SetXY(tempVector2.getX(),tempVector2.getY());instWi.OffsetAngle(-canvasAngle)}if(canvasAngle!==0||!areLayerTransformsCompatible)instWi.SetBboxChanged();const ret=[inst,inst.SaveToJson("visual-state")];if(canvasAngle!==0||!areLayerTransformsCompatible){instWi.SetXY(oldX,oldY);instWi.SetSize(oldWidth,oldHeight);instWi.SetAngle(oldAngle);instWi.SetBboxChanged()}return ret}Do(renderer,
+scale,canvasInst){const canvasManager=canvasInst.GetRuntime().GetCanvasManager();const layer=canvasInst.GetWorldInfo().GetLayer();const layout=layer.GetLayout();const viewport=layer.GetViewport();const canvasBbox=canvasInst.GetWorldInfo().GetBoundingBox();const renderTarget=canvasInst._GetRenderTarget();const isMultisamplng=canvasInst.GetMultisampling()>0;const includeFx=this._includeFx;const restoreLayoutTransform=layout.SaveTransform();layout.RestoreTransform(this._layoutTransform);const restoreLayerTransforms=
+new Map;for(const [layer,transform]of this._layerTransforms){restoreLayerTransforms.set(layer,layer.SaveTransform());layer.RestoreTransform(transform)}canvasManager.SetIsPastingToDrawingCanvas(true);const viewOffX=(viewport.width()-canvasBbox.width())/-2;const viewOffY=(viewport.height()-canvasBbox.height())/-2;const [canvasDeviceLeft,canvasDeviceTop]=layer.LayerToDrawSurface(canvasBbox.getLeft(),canvasBbox.getTop());canvasManager.SetDeviceTransformOffset(canvasDeviceLeft,canvasDeviceTop);const canvasOffX=
+canvasBbox.getLeft()-viewport.getLeft();const canvasOffY=canvasBbox.getTop()-viewport.getTop();const offX=viewOffX+canvasOffX;const offY=viewOffY+canvasOffY;const viewH=renderTarget.GetHeight();let effectiveScale=1;if(canvasInst.IsFixedResolutionMode())effectiveScale=renderTarget.GetWidth()/Math.floor(canvasBbox.width());else effectiveScale=canvasManager.GetRenderScale()*self.devicePixelRatio;const effectiveViewH=viewH/effectiveScale;const pxOff=.5/effectiveScale;renderer.SetProjectionMatrix(renderTarget.GetProjectionMatrix());
+layer._SetTransform(renderer,false,offX+pxOff,offY+pxOff,effectiveViewH);for(let i=0,len=this._instances.length;i<len;++i){const info=this._instances[i];const inst=info[0];const instState=info[1];if(inst.IsDestroyed())continue;const wi=inst.GetWorldInfo();const oldState=inst.SaveToJson("visual-state");inst.LoadFromJson(instState,"visual-state");wi.GetBoundingBox();if(includeFx&&wi.HasAnyActiveEffect()&&(!isMultisamplng||!wi.GetInstanceEffectList().HasAnyActiveBackgroundBlendingEffect())){const opts=
+{drawContentHook:(effectChain,renderer,drawContent)=>{layer._SetTransform(renderer);drawContent();effectChain._SetDeviceTransform(renderer)},compositOffX:canvasDeviceLeft,compositOffY:canvasDeviceTop,updateOwnProjection:true};inst._SetIsDrawingWithEffects(true);if(layer._DrawInstanceWithEffects(inst,wi,renderer,renderTarget,opts))layer._SetTransform(renderer,false,offX+pxOff,offY+pxOff,effectiveViewH);inst._SetIsDrawingWithEffects(false)}else layer._DrawInstance(inst,wi,renderer);inst.LoadFromJson(oldState,
+"visual-state")}canvasManager.SetDeviceTransformOffset(0,0);canvasManager.SetIsPastingToDrawingCanvas(false);canvasInst._SetRenderTargetDeviceTransform(renderer);canvasInst._ApplyCurrentDrawingBlendMode(renderer);layout.RestoreTransform(restoreLayoutTransform);for(const [layer,transform]of restoreLayerTransforms)layer.RestoreTransform(transform);this._resolve()}};
+
+}
+
+{
 'use strict';{const C3=self.C3;C3.Behaviors.DragnDrop=class DragnDropBehavior extends C3.SDKBehaviorBase{constructor(opts){super(opts);const rt=this._runtime.Dispatcher();this._disposables=new C3.CompositeDisposable(C3.Disposable.From(rt,"pointerdown",e=>this._OnPointerDown(e.data)),C3.Disposable.From(rt,"pointermove",e=>this._OnPointerMove(e.data)),C3.Disposable.From(rt,"pointerup",e=>this._OnPointerUp(e.data,false)),C3.Disposable.From(rt,"pointercancel",e=>this._OnPointerUp(e.data,true)))}Release(){this._disposables.Release();
 this._disposables=null;super.Release()}_OnPointerDown(e){if(e["pointerType"]==="mouse"&&e["button"]!==0)return;this._OnInputDown(e["pointerId"].toString(),e["pageX"]-this._runtime.GetCanvasClientX(),e["pageY"]-this._runtime.GetCanvasClientY())}_OnPointerMove(e){if((e["lastButtons"]&1)!==0&&(e["buttons"]&1)===0)this._OnInputUp(e["pointerId"].toString());else this._OnInputMove(e["pointerId"].toString(),e["pageX"]-this._runtime.GetCanvasClientX(),e["pageY"]-this._runtime.GetCanvasClientY())}_OnPointerUp(e,
 isCancel){if(e["pointerType"]==="mouse"&&e["button"]!==0)return;this._OnInputUp(e["pointerId"].toString())}async _OnInputDown(src,clientX,clientY){const myInstances=this.GetInstances();let topMost=null;let topBehInst=null;let topX=0;let topY=0;for(const inst of myInstances){const behInst=inst.GetBehaviorSdkInstanceFromCtor(C3.Behaviors.DragnDrop);if(!behInst.IsEnabled()||behInst.IsDragging()||inst.IsDestroyed())continue;const wi=inst.GetWorldInfo();const layer=wi.GetLayer();const [lx,ly]=layer.CanvasCssToLayer(clientX,
@@ -3739,11 +3818,13 @@ self.C3_GetObjectRefTable = function () {
 		C3.Plugins.Text,
 		C3.Behaviors.DragnDrop,
 		C3.Behaviors.Tween,
+		C3.Plugins.DrawingCanvas,
+		C3.Plugins.System.Cnds.OnLayoutStart,
+		C3.Plugins.Sprite.Acts.SetPos,
 		C3.Plugins.Touch.Cnds.OnTapGestureObject,
 		C3.Plugins.System.Acts.SetVar,
 		C3.Plugins.Sprite.Exps.AnimationFrame,
 		C3.Plugins.System.Acts.GoToLayout,
-		C3.Plugins.System.Cnds.OnLayoutStart,
 		C3.Plugins.System.Acts.SetLayerVisible,
 		C3.Plugins.Sprite.Acts.SetInstanceVar,
 		C3.Plugins.Sprite.Exps.LayerName,
@@ -3756,6 +3837,8 @@ self.C3_GetObjectRefTable = function () {
 		C3.Plugins.Sprite.Exps.AnimationName,
 		C3.Plugins.System.Exps.lowercase,
 		C3.Plugins.Text.Exps.Text,
+		C3.Plugins.DrawingCanvas.Acts.ClearCanvas,
+		C3.Plugins.System.Exps.rgba,
 		C3.Plugins.Sprite.Cnds.IsBoolInstanceVarSet,
 		C3.Plugins.Sprite.Exps.UID,
 		C3.Plugins.System.Cnds.PickAll,
@@ -3769,7 +3852,15 @@ self.C3_GetObjectRefTable = function () {
 		C3.Behaviors.DragnDrop.Cnds.OnDrop,
 		C3.Plugins.Sprite.Cnds.IsOverlapping,
 		C3.Behaviors.Tween.Acts.TweenTwoProperties,
-		C3.Behaviors.Tween.Cnds.OnTweensFinished
+		C3.Behaviors.Tween.Cnds.OnTweensFinished,
+		C3.Plugins.DrawingCanvas.Acts.ClearSnapshot,
+		C3.Plugins.DrawingCanvas.Acts.PasteObject,
+		C3.Plugins.System.Acts.WaitForPreviousActions,
+		C3.Plugins.System.Acts.Wait,
+		C3.Plugins.DrawingCanvas.Acts.SaveImage,
+		C3.Plugins.Sprite.Acts.LoadURL,
+		C3.Plugins.DrawingCanvas.Exps.SavedImageURL,
+		C3.Plugins.Sprite.Acts.SetPosToObject
 	];
 };
 self.C3_JsPropNameTable = [
@@ -3796,6 +3887,12 @@ self.C3_JsPropNameTable = [
 	{deco_start: 0},
 	{button_play: 0},
 	{LR: 0},
+	{button_home: 0},
+	{button_reset: 0},
+	{button_ok: 0},
+	{DrawingCanvas: 0},
+	{panel_result: 0},
+	{result_image: 0},
 	{face_type: 0},
 	{buttonUID: 0}
 ];
@@ -3898,6 +3995,7 @@ function or(l, r)
 }
 
 self.C3_ExpressionFuncs = [
+		() => -2000,
 		p => {
 			const n0 = p._GetNode(0);
 			return () => n0.ExpObject();
@@ -3921,9 +4019,16 @@ self.C3_ExpressionFuncs = [
 			const n1 = p._GetNode(1);
 			return () => f0(n1.ExpObject());
 		},
+		p => {
+			const f0 = p._GetNode(0).GetBoundMethod();
+			return () => f0(0, 0, 0, 0);
+		},
 		() => "FACE OBJECT",
 		() => "drop_out",
-		() => 0.5
+		() => 0.5,
+		() => 0,
+		() => 100,
+		() => "CANVAS"
 ];
 
 
